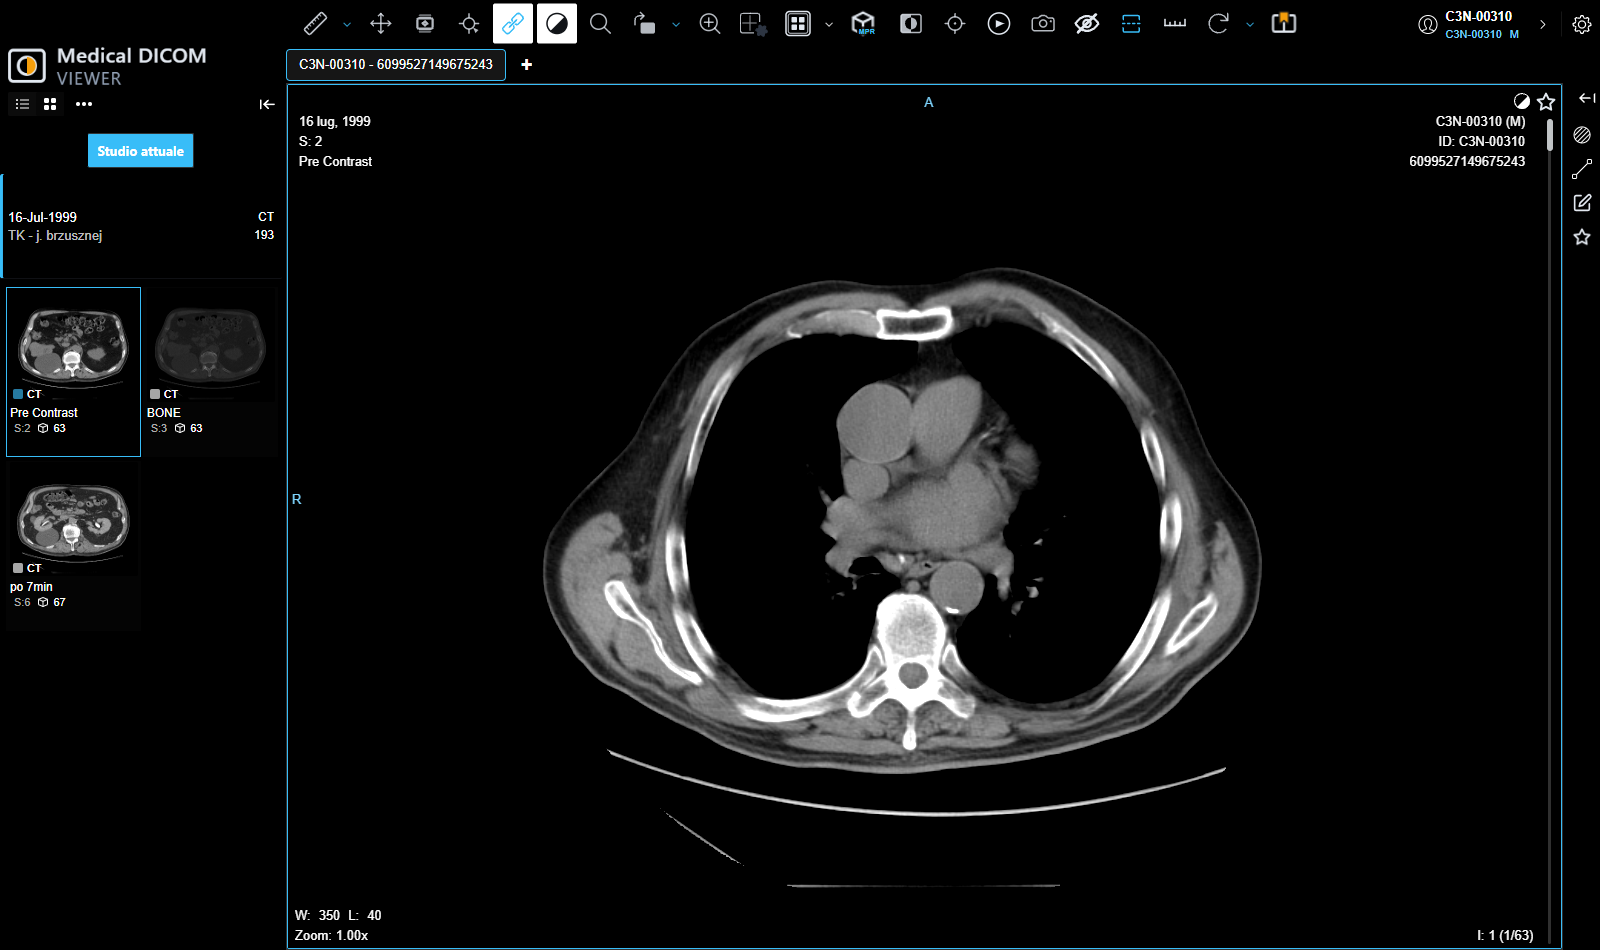
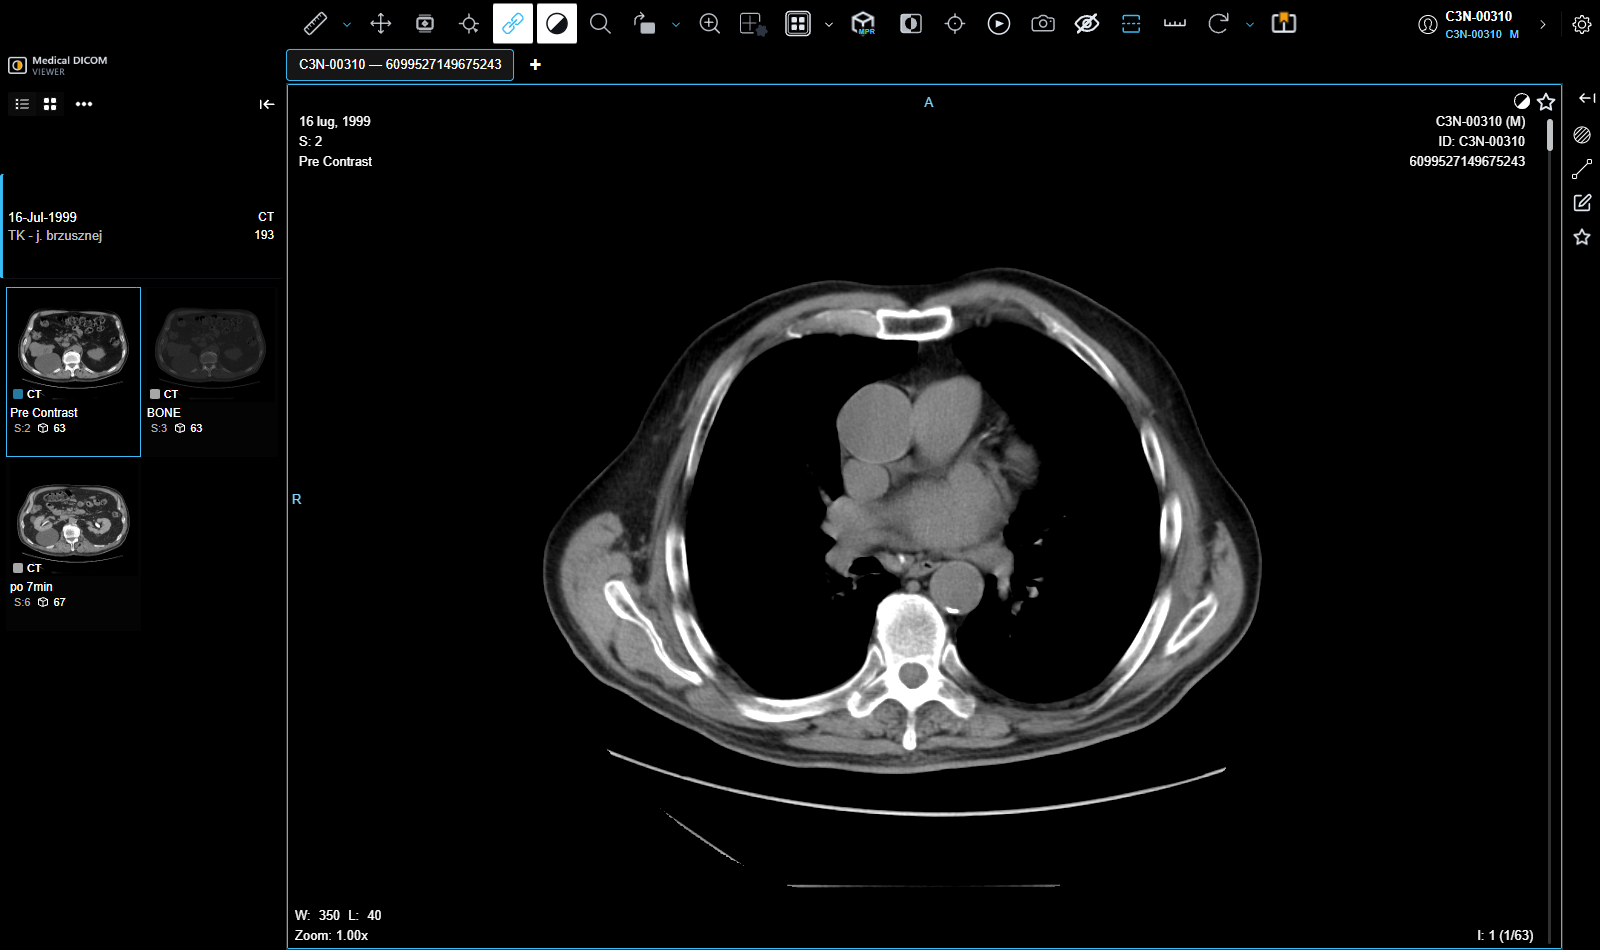
Two controls in the study panel that led nowhere
The first of the three buttons on a prior study did nothing. It walked up
three parents from the click and pressed the first button it met — but the
click lands on whatever was actually hit, and pressing the drawing inside
the button rather than its edge starts from the svg, where three parents up
is somewhere else entirely. Sometimes it found itself. It takes the button
it is on and looks for the accordion handle beside it.

And the row of tabs above the series had only one tab in it whenever the
patient has no prior imaging: a button already lit, leading where you
already are, in a band forty-eight pixels tall. One tab is not a choice.

Changed region(s): [[0.0, 0.0305, 0.125, 0.0916], [0.0312, 0.1221, 0.125, 0.1832], [0.2188, 0.0611, 0.3438, 0.0916]]

diff --git a/platform/ui-next/src/components/StudyItem/StudyItem.tsx b/platform/ui-next/src/components/StudyItem/StudyItem.tsx
@@ -119,8 +119,27 @@ const StudyItem = ({
     studyInstanceUID !== undefined && studyInstanceUID !== null && studyInstanceUID !== '';
   const resolvedDescription = resolveStudyDescription({ description, isStorico, displaySets });
 
+  /**
+   * Apre la riga dello studio storico, mostrandone le anteprime.
+   *
+   * Risaliva tre genitori a partire da e.target e cliccava il primo bottone
+   * che trovava. Ma e.target e cio che si e cliccato davvero: premendo il
+   * disegno dentro il pulsante e non il suo bordo, si parte dallo <svg> e tre
+   * genitori piu su si finisce da un altra parte. Il pulsante sembrava morto,
+   * e a volte lo era: ritrovava se stesso.
+   *
+   * e.currentTarget e sempre il pulsante, comunque lo si sia colpito. Da li si
+   * risale al gruppo delle tre icone e si prende la maniglia dell'accordion,
+   * che nel DOM viene prima.
+   */
   const espandi = e => {
-    e.target.parentElement.parentElement.parentElement.querySelector('button').click();
+    const gruppo = e.currentTarget.closest('.open-storico-modes');
+    const maniglia = gruppo?.parentElement?.querySelector('button');
+    if (!maniglia || maniglia === e.currentTarget) {
+      console.warn('[storico] maniglia di apertura non trovata');
+      return;
+    }
+    maniglia.click();
   };
 
   const isLoadingStoricoDisplaySets =

diff --git a/platform/ui-next/src/components/StudyBrowserViewOptions/StudyBrowserViewOptions.tsx b/platform/ui-next/src/components/StudyBrowserViewOptions/StudyBrowserViewOptions.tsx
@@ -43,6 +43,15 @@ export function StudyBrowserViewOptions({ tabs, onSelectTab, activeTabName }: wi
   //   </div>
   // ); window.portableVersion ? (
 
+  // Una linguetta sola non e una scelta.
+  //
+  // Quando il paziente non ha esami precedenti resta il solo "Studio attuale":
+  // un pulsante gia acceso, che porta dove si e gia. Occupa una fascia alta
+  // quarantotto pixel sopra l'elenco delle serie per non dire niente.
+  if (!tabs || tabs.length < 2) {
+    return null;
+  }
+
   return (
     !window.portableVersion && (
       <div>
